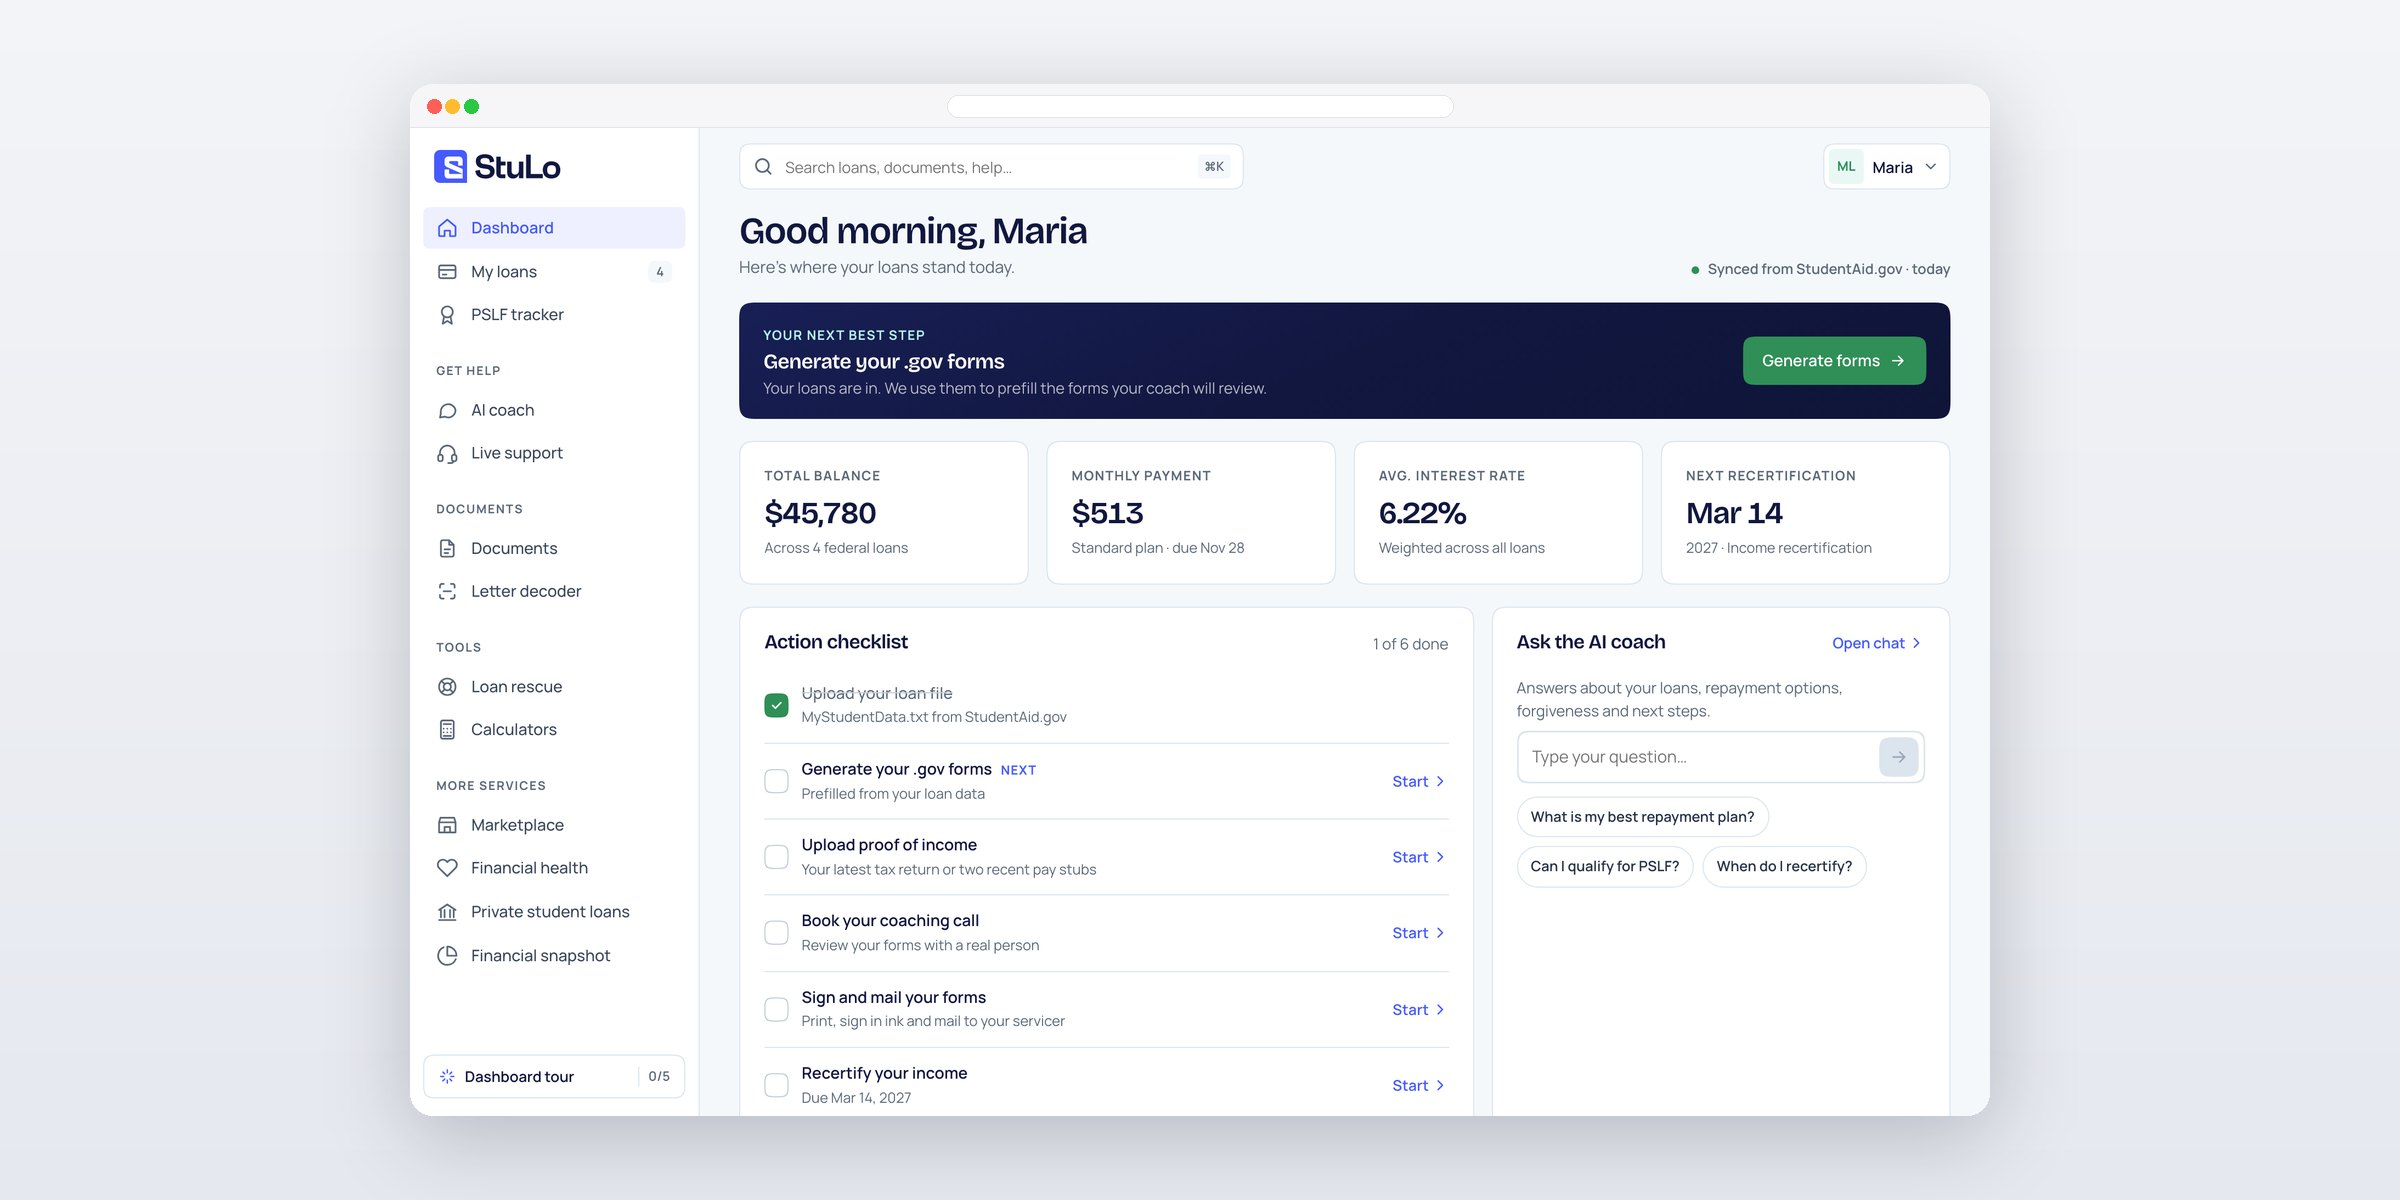
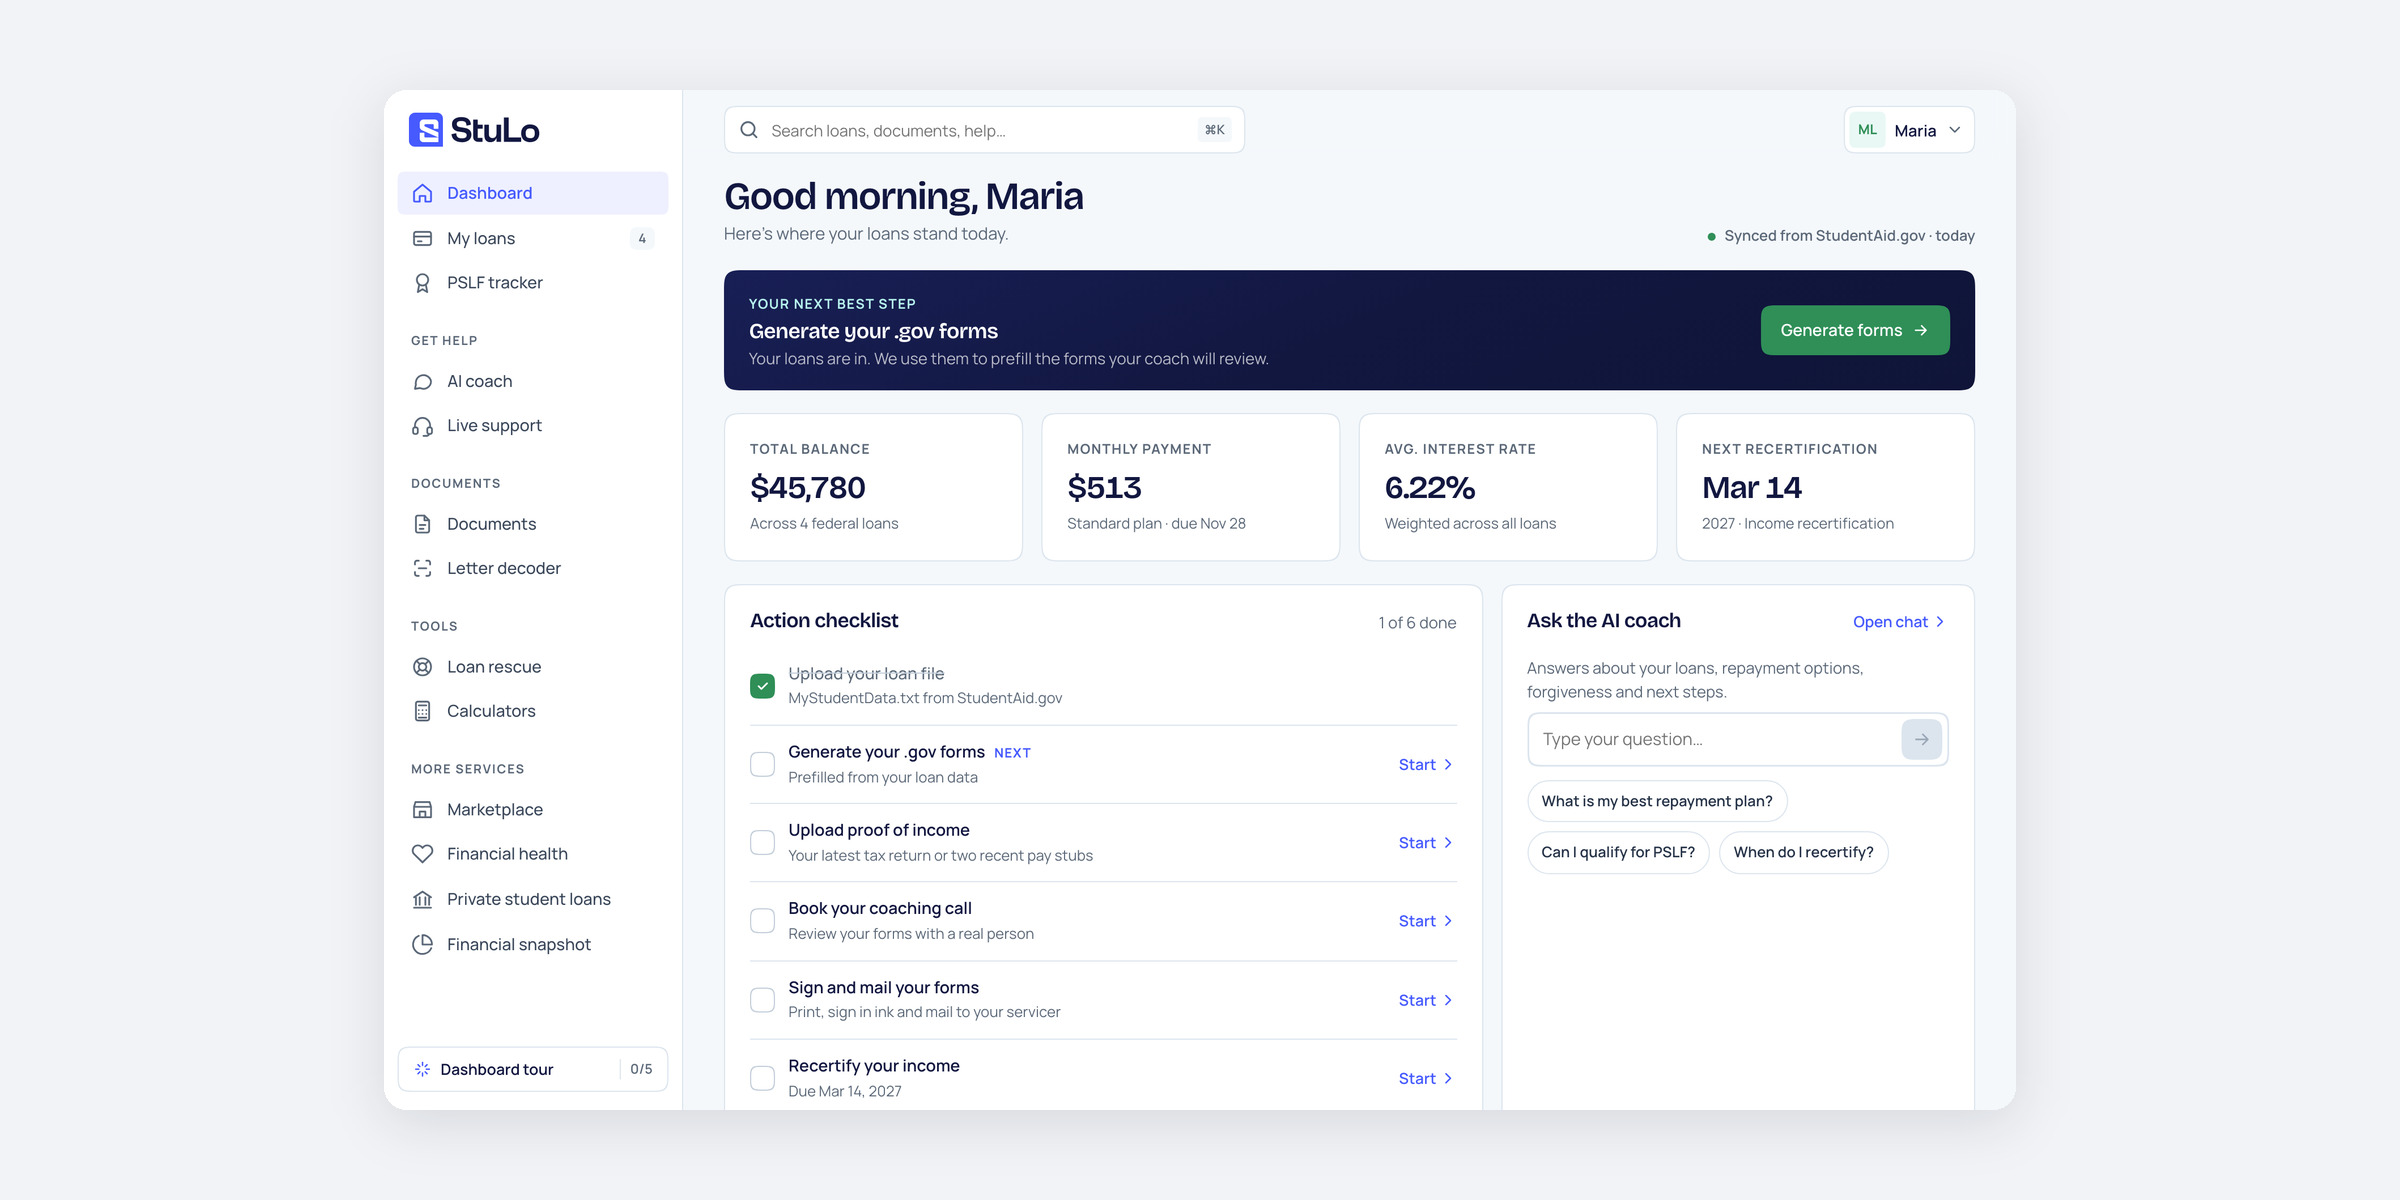
StuLo: photo tiles in Problems/Solutions, even screenshot corners
Claude-Session: https://claude.ai/code/session_019s9hMNDEcLkm54bZicL17g

diff --git a/cases/stulo.html b/cases/stulo.html
@@ -205,6 +205,10 @@ figure{margin:0}
 
 /* карточки флоу: ровные отступы, концентрические скругления */
 .fs{padding:16px!important;gap:20px!important;align-items:center!important;border-radius:28px!important}.fs-ic{width:88px!important;height:88px!important;align-self:center;border-radius:14px!important}.fs-ic svg{width:32px!important;height:32px!important}.fs-tx{display:flex;flex-direction:column;justify-content:center;padding:6px 14px 6px 0}.fs-n{line-height:1}.fs-tx b{margin-top:8px!important;line-height:1.2}.fs-tx p{margin-top:4px!important;line-height:1.4}.fs-ch{margin-top:12px!important}.fs-ch span{line-height:1.2;padding:5px 10px!important}
+
+/* фото в проблемах/решениях */
+.mix .media img{width:100%;height:100%;object-fit:cover;display:block}
+@media (max-width:980px){.mix .media{position:relative;aspect-ratio:auto!important;min-height:240px}.mix .media img{position:absolute;inset:0}}
 </style>
 </head>
 <body>
@@ -276,13 +280,13 @@ figure{margin:0}
     </div>
     <div class="mix">
       <div class="card rv"><span class="n">01</span><p>Several loans across servicers, each with its own balance, rate, plan and status — there’s no single picture.</p></div>
-      <div class="media rv"><img src="../img/cases/stulo/problem-1-loans.jpg?v=3" alt="List of federal loans with balances and rates" loading="lazy"></div>
-      <div class="media rv"><img src="../img/cases/stulo/problem-2-plans.jpg?v=3" alt="Estimated payments across repayment plans" loading="lazy"></div>
+      <div class="media rv"><img src="../img/cases/stulo/photo-p1.jpg?v=1" alt="Unopened bills and loan statements on a kitchen table" loading="lazy"></div>
+      <div class="media rv"><img src="../img/cases/stulo/photo-p2.jpg?v=1" alt="Woman comparing repayment options on a laptop" loading="lazy"></div>
       <div class="card rv"><span class="n">02</span><p>Repayment plans are changing: SAVE is ending and new options like RAP appear. Choosing the right one is hard.</p></div>
-      <div class="media rv"><img src="../img/cases/stulo/problem-3-rescue.jpg?v=3" alt="Loan rescue: what is happening with your loans" loading="lazy"></div>
+      <div class="media rv"><img src="../img/cases/stulo/photo-p3.jpg?v=1" alt="Final notice envelope" loading="lazy"></div>
       <div class="card rv"><span class="n">03</span><p>Falling behind happens quietly. By the time a default notice arrives, options are fewer and costlier.</p></div>
       <div class="card rv"><span class="n">04</span><p>Forgiveness has strict rules: some loan types don’t qualify, and employment must be certified on time.</p></div>
-      <div class="media rv"><img src="../img/cases/stulo/problem-4-eligibility.jpg?v=3" alt="PSLF eligibility by loan" loading="lazy"></div>
+      <div class="media rv"><img src="../img/cases/stulo/photo-p4.jpg?v=1" alt="Teacher filling in forgiveness forms" loading="lazy"></div>
     </div>
   </div>
 </section>
@@ -293,14 +297,14 @@ figure{margin:0}
       <p class="body rv">Replace a maze of rules with one guided path — and real people where it matters.</p>
     </div>
     <div class="mix">
-      <div class="media rv"><img src="../img/cases/stulo/solution-1-checklist.jpg?v=3" alt="Action checklist with the next step" loading="lazy"></div>
+      <div class="media rv"><img src="../img/cases/stulo/photo-s1.jpg?v=1" alt="Tidy table with a checklist" loading="lazy"></div>
       <div class="card rv"><span class="n">01</span><p>A dashboard built around the next best step and an action checklist: upload, generate forms, proof of income, coaching call, sign and mail, recertify.</p></div>
-      <div class="media rv"><img src="../img/cases/stulo/solution-2-sync.jpg?v=3" alt="Onboarding: upload the MyStudentData file" loading="lazy"></div>
+      <div class="media rv"><img src="../img/cases/stulo/photo-s2.jpg?v=1" alt="Hands on a laptop, papers set aside" loading="lazy"></div>
       <div class="card rv"><span class="n">02</span><p>Loans sync from the official StudentAid.gov data file — balances, rates and servicers fill in automatically, with no FSA ID required.</p></div>
       <div class="card rv"><span class="n">03</span><p>A letter decoder turns servicer notices into plain English: key dates, amounts, what to do next and what happens if you don’t act.</p></div>
-      <div class="media rv"><img src="../img/cases/stulo/solution-3-decoder.jpg?v=3" alt="Servicer letter decoded into plain English" loading="lazy"></div>
+      <div class="media rv"><img src="../img/cases/stulo/photo-s3.jpg?v=1" alt="Woman relieved after reading a letter" loading="lazy"></div>
       <div class="card rv"><span class="n">04</span><p>An AI coach answers questions any time, and a real coach reviews prefilled .gov forms and finalizes the strategy.</p></div>
-      <div class="media rv"><img src="../img/cases/stulo/solution-4-coach.jpg?v=3" alt="AI coach explaining repayment plans" loading="lazy"></div>
+      <div class="media rv"><img src="../img/cases/stulo/photo-s4.jpg?v=1" alt="Teacher on a call with a coach" loading="lazy"></div>
     </div>
   </div>
 </section>
@@ -345,9 +349,9 @@ figure{margin:0}
       <p class="body rv">A dashboard that answers “what now?”, a PSLF tracker for the long game, and a sign-in that explains the value up front.</p>
     </div>
     <div class="screens">
-      <div class="media span rv"><img src="../img/cases/stulo/screen-dashboard.jpg?v=3" alt="Dashboard with next best step and loan summary" loading="lazy"></div>
-      <div class="media rv"><img src="../img/cases/stulo/screen-pslf.jpg?v=3" alt="PSLF tracker with progress to 120 payments" loading="lazy"></div>
-      <div class="media rv"><img src="../img/cases/stulo/screen-signin.jpg?v=3" alt="Sign-in with value proposition" loading="lazy"></div>
+      <div class="media span rv"><img src="../img/cases/stulo/screen-dashboard.jpg?v=5" alt="Dashboard with next best step and loan summary" loading="lazy"></div>
+      <div class="media rv"><img src="../img/cases/stulo/screen-pslf.jpg?v=5" alt="PSLF tracker with progress to 120 payments" loading="lazy"></div>
+      <div class="media rv"><img src="../img/cases/stulo/screen-signin.jpg?v=5" alt="Sign-in with value proposition" loading="lazy"></div>
     </div>
     <p class="body rv" style="margin-top:20px"><a href="https://stulo-v2.vercel.app/#signin" target="_blank" rel="noopener" style="color:var(--brand)">Open the live prototype ↗</a></p>
   </div>
